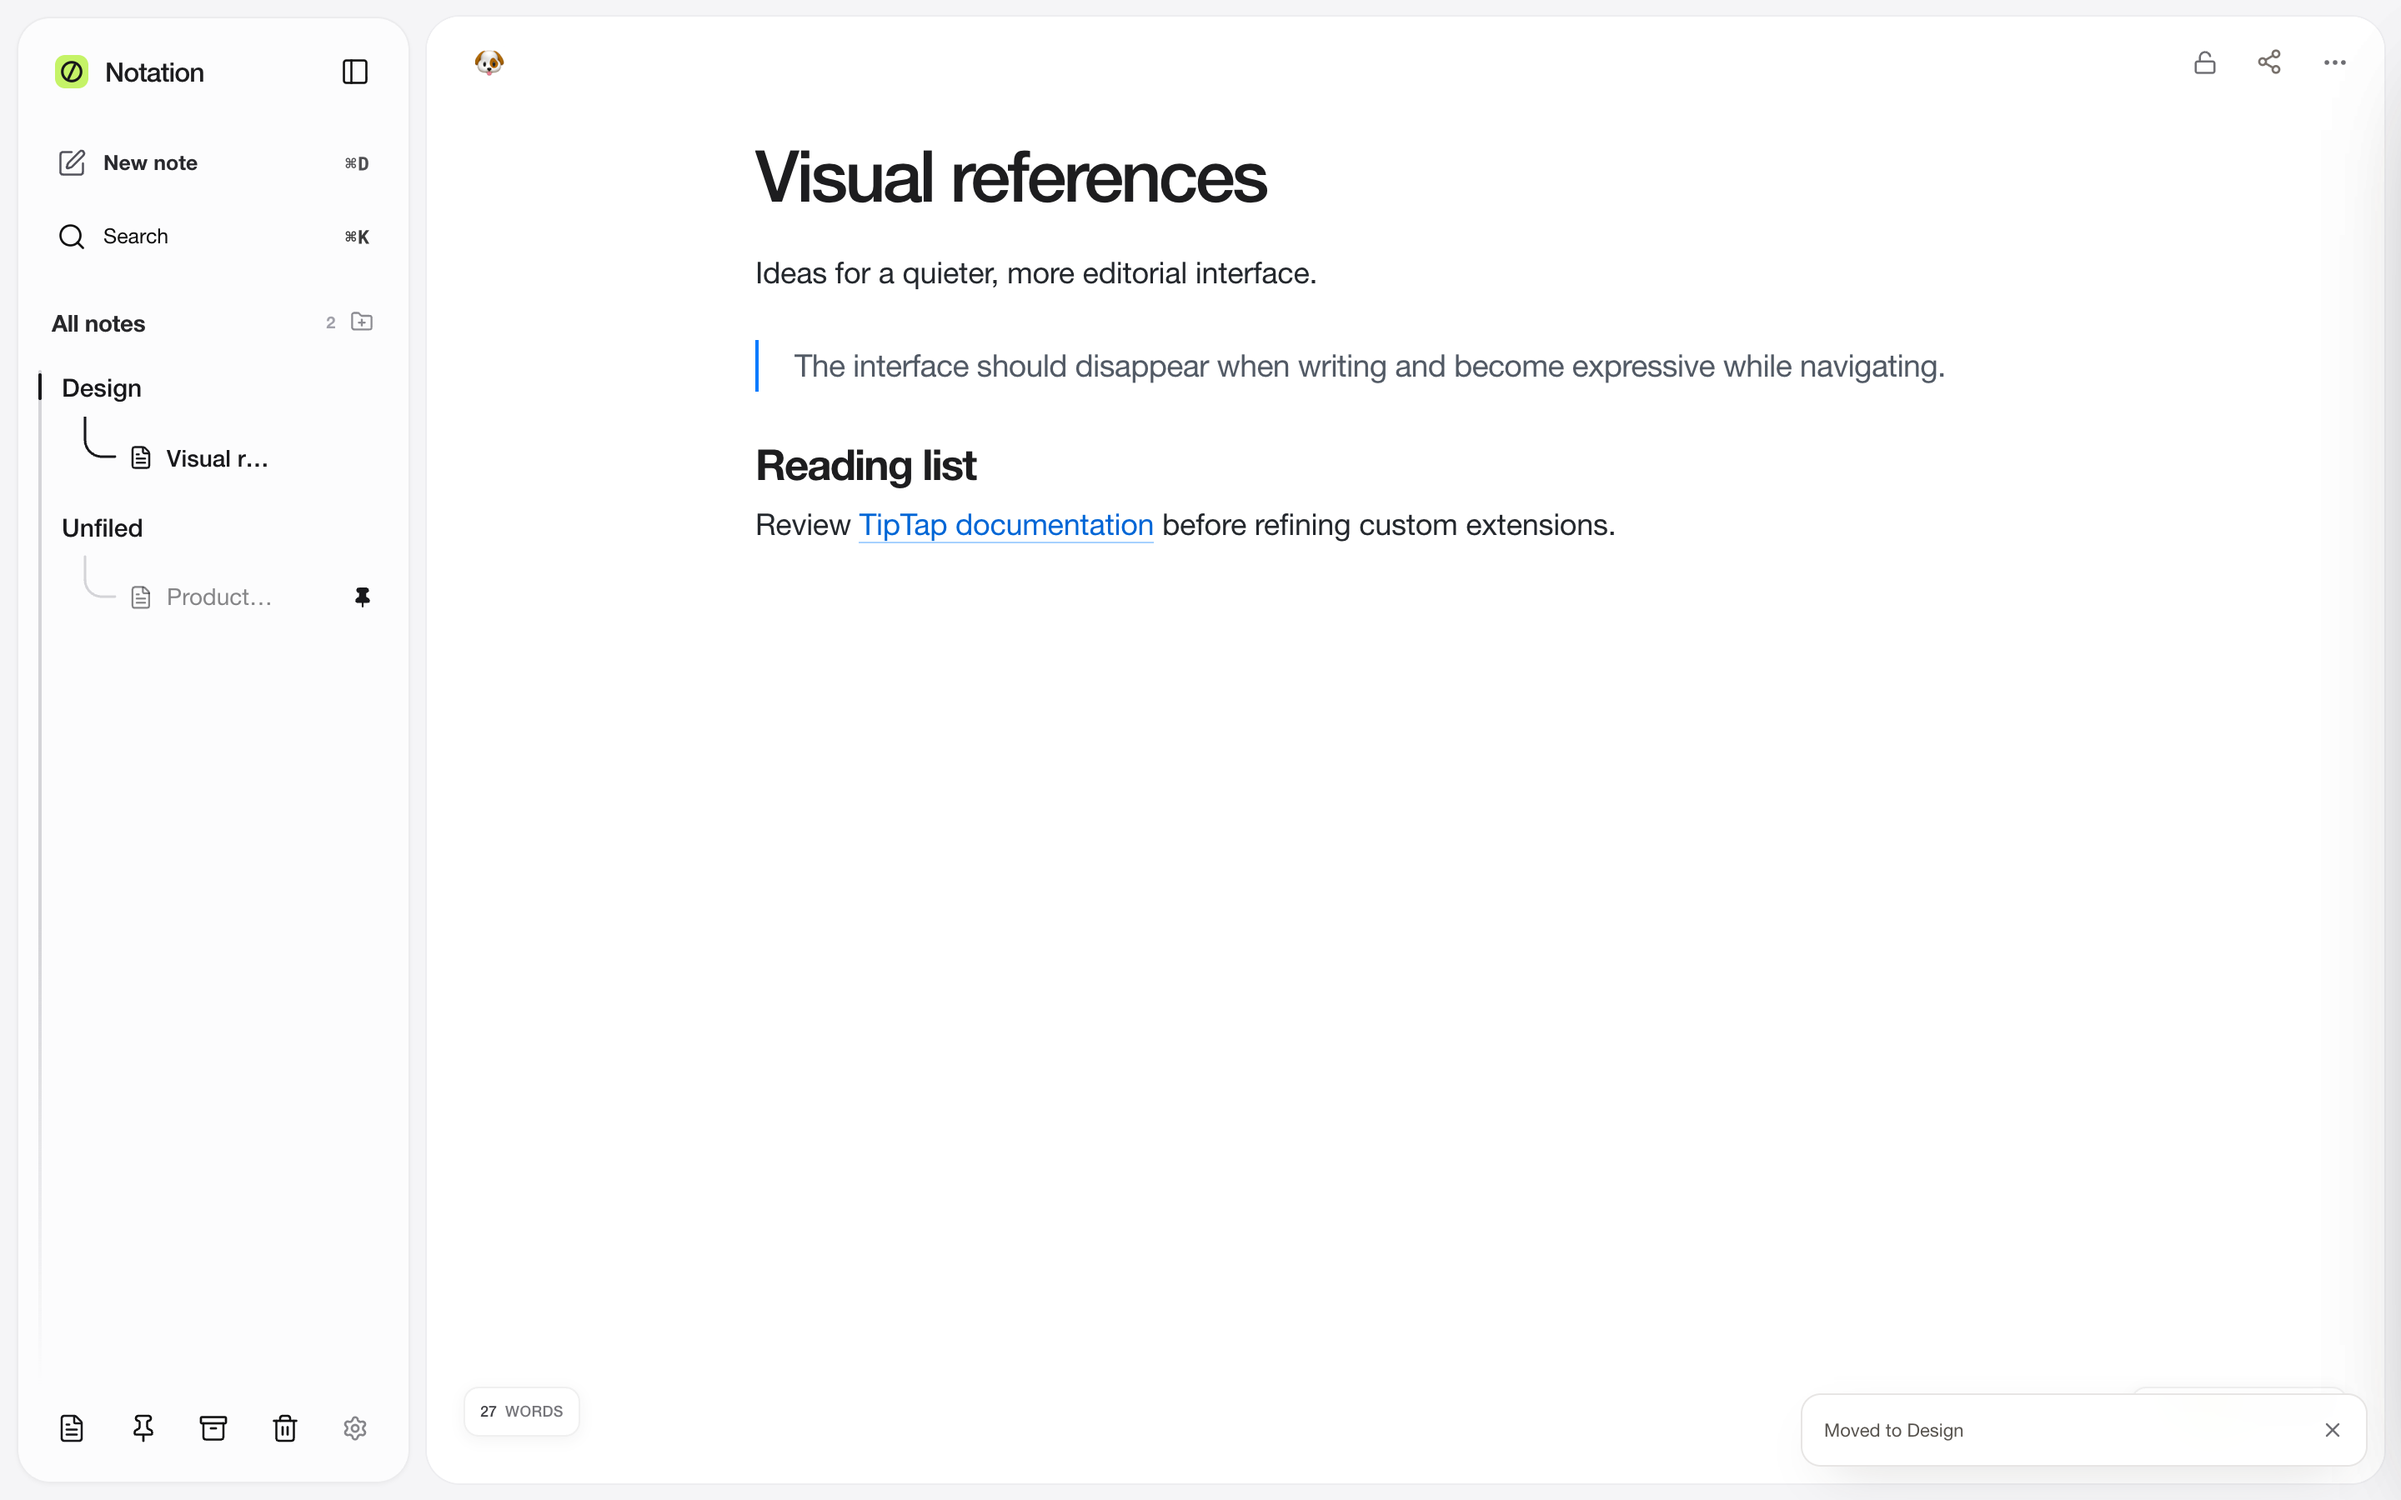
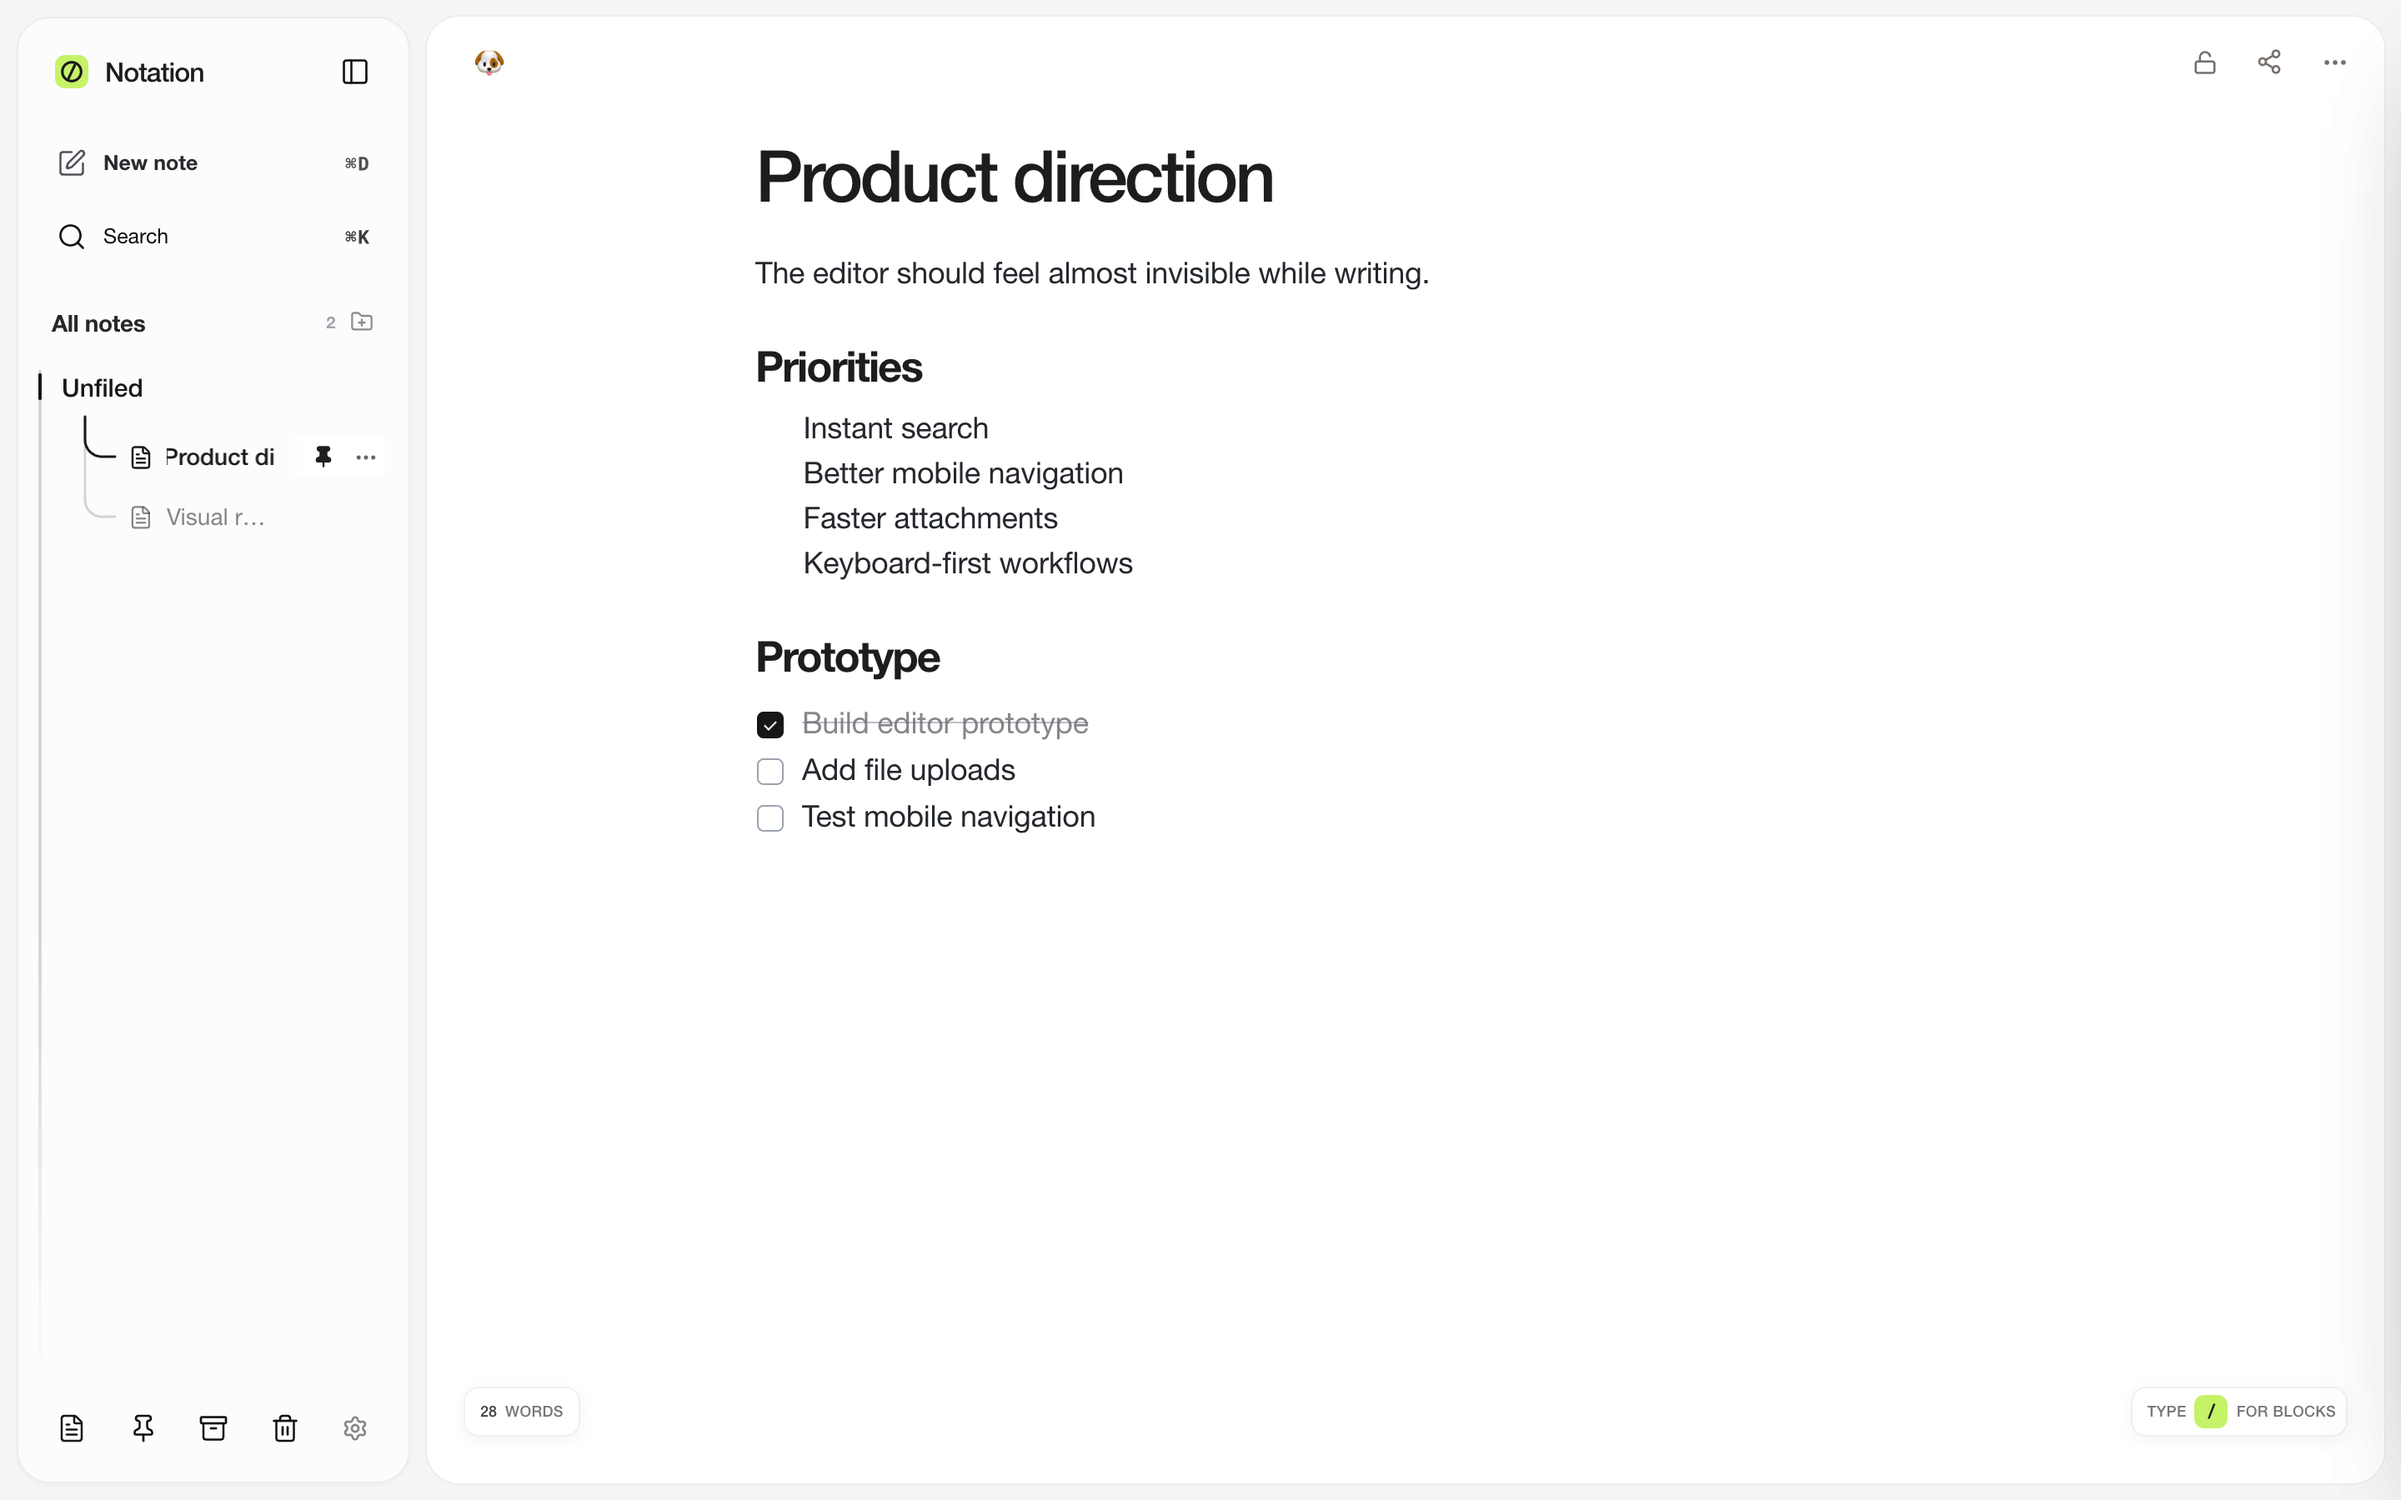
Add run-local CTA and refresh landing shots

diff --git a/src/app/landing/landing.module.css b/src/app/landing/landing.module.css
@@ -5,6 +5,8 @@
   --muted: #717171;
   --line: rgba(24, 24, 24, 0.09);
   --panel: rgba(250, 250, 248, 0.82);
+  --font-display: "Schibsted Grotesk Variable", -apple-system, BlinkMacSystemFont, sans-serif;
+  --font-body: "Helvetica Neue", Helvetica, Arial, sans-serif;
   position: relative;
   width: 100%;
   height: 100dvh;
@@ -15,7 +17,7 @@
   scrollbar-gutter: stable;
   background: #fbfbfa;
   color: var(--ink);
-  font-family: "Helvetica Neue", Helvetica, Arial, sans-serif;
+  font-family: var(--font-body);
 }
 
 .page *, .page *::before, .page *::after { box-sizing: border-box; }
@@ -44,13 +46,12 @@
 .navLinks a { padding: 8px 10px; border-radius: 8px; color: #70706d; font-size: 12px; transition: background 160ms ease, color 160ms ease; }
 .navLinks a:hover { background: #f5f5f2; color: #181818; }
 .navActions { display: flex; justify-content: flex-end; align-items: center; gap: 7px; }
-.openApp { padding: 9px 10px; color: #666; font-size: 12px; }
 .navCta { display: inline-flex; height: 40px; align-items: center; gap: 7px; padding: 0 14px; border-radius: 11px; background: #191919; color: #fff !important; font-size: 12px; font-weight: 600; transition: transform 180ms cubic-bezier(.16,1,.3,1), background 180ms ease; }
 .navCta:hover { background: #000; transform: translateY(-1px); }
 
 .hero { position: relative; z-index: 1; width: min(1120px, calc(100% - 40px)); margin: 0 auto; padding: 132px 0 46px; }
 .heroCopy { max-width: 840px; margin: 0 auto 34px; text-align: center; }
-.hero h1 { max-width: 840px; margin: 0 auto; font-family: "Schibsted Grotesk Variable", -apple-system, BlinkMacSystemFont, sans-serif; font-size: clamp(52px, 6vw, 82px); font-weight: 610; line-height: .96; letter-spacing: -.055em; text-wrap: balance; }
+.hero h1 { max-width: 840px; margin: 0 auto; font-family: var(--font-display); font-size: clamp(52px, 6vw, 82px); font-weight: 610; line-height: .96; letter-spacing: -.055em; text-wrap: balance; }
 .heroAccent { display: inline; }
 .heroCopy > p { max-width: 610px; margin: 22px auto 0; color: #6f6f6c; font-size: clamp(16px, 1.45vw, 19px); line-height: 1.5; letter-spacing: -.02em; text-wrap: balance; }
 .heroActions { display: flex; justify-content: center; gap: 9px; margin-top: 24px; }
@@ -67,13 +68,13 @@
 .statement { position: relative; z-index: 1; width: min(1120px, calc(100% - 40px)); margin: 0 auto 64px; }
 .statementInner { padding: 44px 0 52px; border-top: 1px solid var(--line); }
 .sectionIndex { color: #92928e; font: 500 9px/1.2 "IBM Plex Mono", monospace; letter-spacing: .08em; }
-.statement h2 { max-width: 900px; margin: 0; font-size: clamp(36px, 4.3vw, 60px); font-weight: 560; line-height: 1.03; letter-spacing: -.05em; text-wrap: balance; }
+.statement h2 { max-width: 900px; margin: 0; font-family: var(--font-display); font-size: clamp(36px, 4.3vw, 60px); font-weight: 560; line-height: 1.03; letter-spacing: -.05em; text-wrap: balance; }
 .statement p { max-width: 600px; margin: 18px 0 0; color: #727272; font-size: 16px; line-height: 1.55; letter-spacing: -.018em; }
 
 .bento { position: relative; z-index: 1; display: grid; width: min(1120px, calc(100% - 40px)); grid-template-columns: minmax(0, 1.45fr) minmax(330px, .7fr); gap: 12px; margin: 0 auto 12px; }
 .bentoCard { position: relative; overflow: hidden; min-height: 560px; border: 1px solid var(--line); border-radius: 22px; padding: 28px; background: #fff; box-shadow: 0 18px 52px -46px rgba(0,0,0,.28); }
 .cardHead { display: flex; justify-content: space-between; align-items: flex-start; gap: 20px; }
-.cardHead h3 { max-width: 520px; margin: 0; font-size: clamp(28px, 3vw, 42px); font-weight: 560; line-height: 1.02; letter-spacing: -.05em; }
+.cardHead h3 { max-width: 520px; margin: 0; font-family: var(--font-display); font-size: clamp(28px, 3vw, 42px); font-weight: 560; line-height: 1.02; letter-spacing: -.05em; }
 .bentoCard > p { max-width: 510px; margin: 17px 0 0; color: #777; font-size: 14px; line-height: 1.55; }
 .iconPill { display: grid; width: 42px; height: 42px; flex: 0 0 auto; place-items: center; border-radius: 13px; background: var(--lime); }
 .searchCard { background: #fff; }
@@ -82,7 +83,7 @@
 
 .openSourceCard { display: grid; background: #171717; color: #fff; }
 .openSourceTop { grid-area: 1 / 1; align-self: start; }
-.openSourceTop h3 { margin: 0; font-size: clamp(28px, 3vw, 42px); font-weight: 560; line-height: 1.02; letter-spacing: -.05em; }
+.openSourceTop h3 { margin: 0; font-family: var(--font-display); font-size: clamp(28px, 3vw, 42px); font-weight: 560; line-height: 1.02; letter-spacing: -.05em; }
 .openSourceTop p { max-width: 300px; margin: 16px 0 0; color: #9a9a96; font-size: 14px; line-height: 1.55; }
 .verifiedModel { position: relative; z-index: 2; grid-area: 1 / 1; align-self: center; justify-self: center; display: grid; place-items: center; color: #fff; pointer-events: none; }
 .verifiedSeal { display: block; width: 112px; height: 112px; overflow: visible; filter: drop-shadow(0 18px 34px rgba(0,0,0,.24)); }
@@ -106,7 +107,7 @@
 .finalOrb { position: absolute; top: 38px; right: 42px; }
 .finalOrb .brandMark { width: 58px; height: 58px; flex-basis: 58px; border-radius: 15px; box-shadow: 0 16px 34px -28px rgba(0,0,0,.36); }
 .finalInner .sectionIndex { color: rgba(24,24,24,.52); }
-.finalInner h2 { margin: 36px 0 12px; font-family: "Schibsted Grotesk Variable", -apple-system, BlinkMacSystemFont, sans-serif; font-size: clamp(52px, 6vw, 82px); font-weight: 610; line-height: .92; letter-spacing: -.055em; }
+.finalInner h2 { margin: 36px 0 12px; font-family: var(--font-display); font-size: clamp(52px, 6vw, 82px); font-weight: 610; line-height: .92; letter-spacing: -.055em; }
 .finalInner > p { margin: 18px 0 28px; color: rgba(24,24,24,.64); font-size: 16px; }
 .finalButton { display: inline-flex; height: 54px; align-items: center; gap: 9px; padding: 0 18px; border-radius: 15px; background: #191919; color: #fff !important; font-size: 13px; font-weight: 620; box-shadow: 0 20px 35px -24px rgba(0,0,0,.46); transition: transform 220ms cubic-bezier(.16,1,.3,1), box-shadow 220ms ease; }
 .finalButton:hover { transform: translateY(-3px); box-shadow: 0 26px 42px -24px rgba(0,0,0,.5); }
@@ -115,9 +116,6 @@
 .footer .brand { color: #272727; font-size: 15px; font-weight: 650; gap: 9px; }.footer .brandMark { width: 29px; height: 29px; flex-basis: 29px; border-radius: 8px; }
 .footer p { margin: 0; }
 .footer > div { display: flex; justify-content: flex-end; gap: 20px; }.footer > div a:hover { color: #222; }
-
-@keyframes float { 0%,100% { transform: translateY(0); } 50% { transform: translateY(-7px); } }
-@keyframes marquee { to { transform: translateX(-50%); } }
 
 @media (max-width: 900px) {
   .nav { grid-template-columns: 1fr auto; }
@@ -134,7 +132,7 @@
   .navWrap { top: 10px; padding: 0 10px; }
   .nav { width: 100%; min-height: 54px; padding-left: 12px; border-radius: 16px; }
   .brand { font-size: 14px; }.brandMark { width: 27px; height: 27px; }
-  .openApp { display: none; }.navCta { height: 38px; padding: 0 11px; }.navCta span { display: none; }
+  .navCta { height: 38px; padding: 0 11px; }.navCta span { display: none; }
   .hero { width: calc(100% - 24px); padding: 104px 0 32px; }
   .heroCopy { margin-bottom: 30px; }
   .hero h1 { font-size: clamp(44px, 12.5vw, 58px); line-height: .95; }

diff --git a/src/app/landing/page.tsx b/src/app/landing/page.tsx
@@ -11,6 +11,7 @@ import {
   Highlighter,
   ImageIcon,
   Link2,
+  Play as PlayIcon,
   Search,
   Table2,
 } from "lucide-react";
@@ -19,12 +20,12 @@ import { publicPath } from "@/lib/public-path";
 import styles from "./landing.module.css";
 
 const githubUrl = "https://github.com/Code-Wizard-Wilson/Notation";
+const runUrl = `${githubUrl}#run-locally`;
 
 const reveal = {
   hidden: { opacity: 0, y: 26 },
   visible: { opacity: 1, y: 0 },
 };
-
 
 const features = [
   { icon: Command, label: "Keyboard first", copy: "Create, search and move through notes without leaving the keyboard." },
@@ -69,7 +70,6 @@ export default function LandingPage() {
           <div className={styles.navLinks}>
             <a href="#features">Features</a>
             <a href="#workflow">Workflow</a>
-            <a href={githubUrl} target="_blank" rel="noreferrer">GitHub</a>
           </div>
           <div className={styles.navActions}>
             <a href={githubUrl} target="_blank" rel="noreferrer" className={styles.navCta}>
@@ -95,10 +95,14 @@ export default function LandingPage() {
             A fast, focused notes app with rich blocks, Markdown, backlinks and just enough interface to stay out of your way.
           </p>
           <div className={styles.heroActions}>
-            <a href={githubUrl} target="_blank" rel="noreferrer" className={styles.primaryCta}>
-              <MarkGithubIcon size={19} aria-hidden="true" />
-              <span>View source on GitHub</span>
+            <a href={runUrl} target="_blank" rel="noreferrer" className={styles.primaryCta}>
+              <PlayIcon size={17} aria-hidden="true" />
+              <span>Run it locally</span>
               <ArrowUpRight size={16} />
+            </a>
+            <a href={githubUrl} target="_blank" rel="noreferrer" className={styles.secondaryCta}>
+              <MarkGithubIcon size={17} aria-hidden="true" />
+              <span>View source</span>
             </a>
           </div>
         </motion.div>
@@ -230,7 +234,7 @@ export default function LandingPage() {
           <div className={styles.finalOrb} aria-hidden="true"><BrandMark /></div>
           <span className={styles.sectionIndex}>OPEN SOURCE</span>
           <h2>Keep the note.<br />Lose the noise.</h2>
-          <p>Clone it, change it, make it yours.</p>
+          <p>Run it locally, clone it, change it — make it yours.</p>
           <a href={githubUrl} target="_blank" rel="noreferrer" className={styles.finalButton}>
             <MarkGithubIcon size={20} aria-hidden="true" />
             <span>View source on GitHub</span>
@@ -243,6 +247,7 @@ export default function LandingPage() {
         <Link href="/" className={styles.brand}><BrandMark /><span>Notation</span></Link>
         <p>Built for notes, not dashboards.</p>
         <div>
+          <a href={runUrl} target="_blank" rel="noreferrer">Run locally</a>
           <a href={githubUrl} target="_blank" rel="noreferrer">GitHub</a>
         </div>
       </footer>
